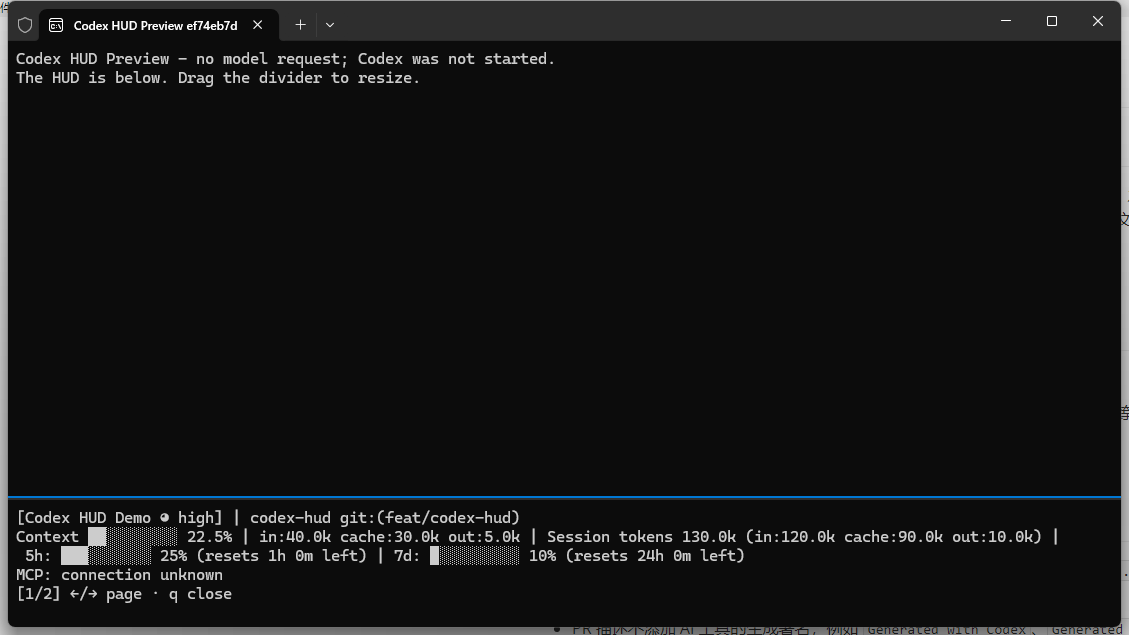
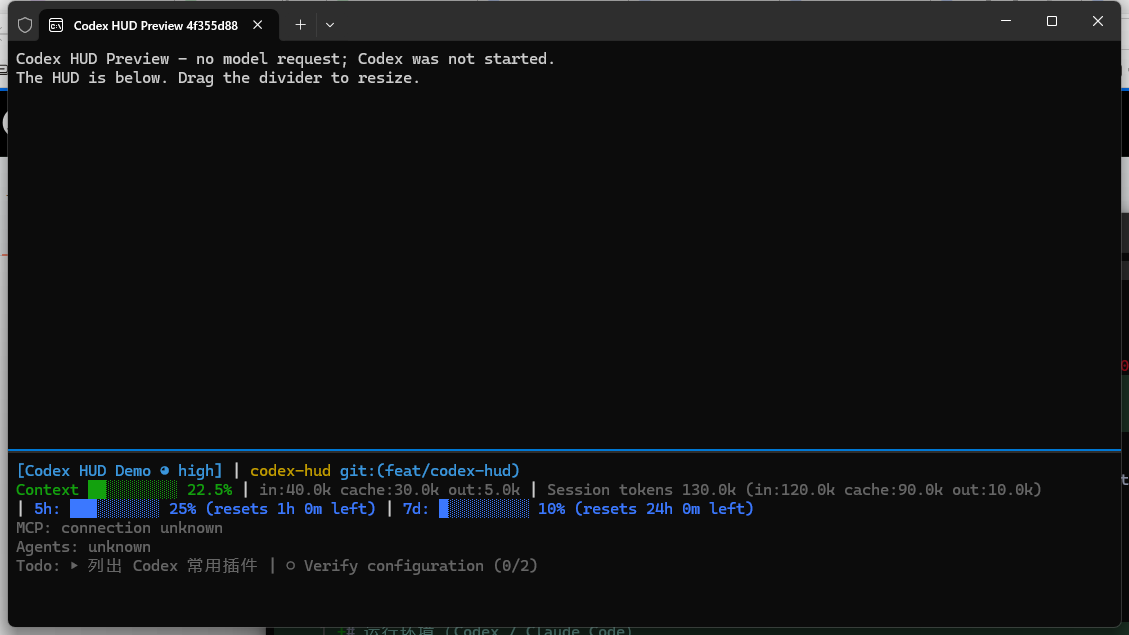
fix(hud): recover telemetry and diagnose launch prerequisites

diff --git a/codex-hud/src/runtime.ts b/codex-hud/src/runtime.ts
@@ -5,8 +5,9 @@ import {randomUUID} from 'node:crypto';
 import {spawn,execFileSync} from 'node:child_process';
 import {fileURLToPath,pathToFileURL} from 'node:url';
 import net from 'node:net';
-import {get,configPath,type Config} from './config.js';
+import {get,configPath,loadConfig,type Config} from './config.js';
 import {codexHome} from './sessions.js';
+import {inspectHookSetup,type HookSetup} from './doctor.js';
 export interface LaunchDescriptor {
  kind:'mz-codex-hud/1';id:string;file:string;cwd:string;codexHome:string;configFile:string;createdAt:string;
  state:'created'|'running'|'exited';sessionId?:string;transcriptPath?:string;heartbeat?:number;pid?:number;
@@ -63,8 +64,9 @@ export function buildTerminalArgs(d:LaunchDescriptor,args:string[]):string[]{
  const command=['-w','mz-codex-hud-'+d.id,'new-tab','--title',d.demo?'Codex HUD Preview '+d.id.slice(0,8):'Codex','--suppressApplicationTitle',...shared,'runner','--launch64',launch64,'--argv',Buffer.from(JSON.stringify(args)).toString('base64'),';','split-pane','--horizontal','--size',String(d.paneSize),'--title','Codex HUD','--suppressApplicationTitle',...shared,'watch','--launch64',launch64,';','focus-pane','-t','0'];
  if(command.join(' ').length>28000)throw new Error('Command arguments too long for Windows Terminal');return command;
 }
-export function resolveCodex():Command{
- const dirs=(process.env.PATH??'').split(path.delimiter);
+export function resolveCodex(environment:NodeJS.ProcessEnv=process.env,cwd=process.cwd()):Command{
+ const pathKey=Object.keys(environment).find(key=>key.toUpperCase()==='PATH');
+ const dirs=(pathKey?environment[pathKey]??'':'').split(path.delimiter).filter(Boolean).map(dir=>path.resolve(cwd,dir));
  for(const dir of dirs){
   const script=path.join(dir,'node_modules','@openai','codex','bin','codex.js');
   if(fs.existsSync(script))return {command:process.execPath,args:[script]};
@@ -97,23 +99,25 @@ export async function receiveEnvironment(d:LaunchDescriptor):Promise<NodeJS.Proc
   socket.on('error',reject);socket.on('end',()=>{try{const env=JSON.parse(data);if(!env||typeof env!=='object'||Array.isArray(env)||!Object.values(env).every(v=>typeof v==='string'))throw new Error('Invalid launch environment');resolve(env);}catch(e){reject(e);}});
  });
 }
-export async function runCodex(d:LaunchDescriptor,args:string[],command=resolveCodex(),environment:NodeJS.ProcessEnv=process.env):Promise<number>{
+export async function runCodex(d:LaunchDescriptor,args:string[],command:Command|undefined=undefined,environment:NodeJS.ProcessEnv=process.env):Promise<number>{
  validateCodexArgs(args);
  updateLaunch(d.file,value=>{value.state='running';value.pid=process.pid;value.heartbeat=Date.now();});
  const heartbeat=setInterval(()=>{try{updateLaunch(d.file,v=>{v.heartbeat=Date.now();});}catch{}},2000);
  const ignoreInterrupt=()=>{};process.on('SIGINT',ignoreInterrupt);
  try{
+  const selectedCommand=command??resolveCodex(environment,d.cwd);
   const code=await new Promise<number>((resolve,reject)=>{
-   const child=spawn(command.command,[...command.args,...(command.isolated===false?[]:['--no-daemon']),...args],{cwd:d.cwd,env:{...environment,CODEX_HOME:d.codexHome,MZ_CODEX_HUD_LAUNCH:d.file},stdio:'inherit',windowsHide:false,shell:false});
+   const child=spawn(selectedCommand.command,[...selectedCommand.args,...(selectedCommand.isolated===false?[]:['--no-daemon']),...args],{cwd:d.cwd,env:{...environment,CODEX_HOME:d.codexHome,MZ_CODEX_HUD_LAUNCH:d.file},stdio:'inherit',windowsHide:false,shell:false});
    child.once('error',reject);child.once('exit',(code,signal)=>resolve(code??(signal?130:1)));
   });updateLaunch(d.file,v=>{v.state='exited';v.exitCode=code;v.heartbeat=Date.now();});return code;
  }catch(e){updateLaunch(d.file,v=>{v.state='exited';v.exitCode=1;});throw e;}
  finally{clearInterval(heartbeat);process.off('SIGINT',ignoreInterrupt);}
 }
-export interface DoctorReport {node:string;terminal:boolean;codex:boolean;hooks:string;notes:string[]}
-export function checkRuntime():DoctorReport{
+export interface DoctorReport {node:string;terminal:boolean;codex:boolean;hooks:string;plugin:HookSetup;configuration:{status:string;path:string};binding:{status:string;sessionId?:string};notes:string[]}
+export function checkRuntime(options:{home?:string;configFile?:string;launchFile?:string}={}):DoctorReport{
  let terminal=false,codex=false;try{execFileSync('where.exe',['wt.exe'],{stdio:'ignore',windowsHide:true,timeout:1500});terminal=true;}catch{}
  try{resolveCodex();codex=true;}catch{}
- return {node:process.version,terminal,codex,hooks:'Review plugin hooks using /hooks in Codex; trust is never assumed',notes:process.platform==='win32'?[]:['Automatic split launch requires native Windows Terminal']};
+ const file=options.configFile??configPath();let status=fs.existsSync(file)?'valid':'defaults';try{loadConfig(file);}catch{status='invalid';}
+ let binding:DoctorReport['binding']={status:'not-selected'};if(options.launchFile){try{const launch=readLaunch(options.launchFile);binding={status:launch.state==='exited'?'exited':launch.sessionId?'bound':'pending',sessionId:launch.sessionId};if(launch.state==='running'&&launch.heartbeat&&Date.now()-launch.heartbeat>15000)binding.status='stale-runner';}catch{binding={status:'invalid-launch'};}}
+ return {node:process.version,terminal,codex,hooks:'Review plugin hooks using /hooks in Codex; trust is never assumed',plugin:inspectHookSetup(options.home??codexHome()),configuration:{status,path:file},binding,notes:process.platform==='win32'?[]:['Automatic split launch requires native Windows Terminal']};
 }
-

diff --git a/codex-hud/src/cli.ts b/codex-hud/src/cli.ts
@@ -32,7 +32,7 @@ async function watch(args:string[],once=false):Promise<void>{
  const ownedFile=launchFile(args);let descriptor=ownedFile?readLaunch(ownedFile):undefined;
  const home=descriptor?.codexHome??codexHome();const root=option(args,'--sessions-root')??path.join(home,'sessions');
  let selected=option(args,'--session');if(!descriptor&&!selected)selected=await chooseSession(root);
- let cfgFile=descriptor?.configFile??configFile(args),config=loadConfig(cfgFile);let page=0,quit=false,reader:SessionReader|undefined,nextDiscover=0,knownPath='',statusMessage='';
+ let cfgFile=descriptor?.configFile??configFile(args),config=loadConfig(cfgFile);let page=0,quit=false,reader:SessionReader|undefined,nextDiscover=0,knownPath='',statusMessage='';let lastSnapshot=emptySnapshot(selected??'pending');
  const onKey=(_:unknown,key:{name?:string;ctrl?:boolean})=>{if(key?.name==='q'||key?.name==='c'&&key.ctrl)quit=true;else if(key?.name==='right'||key?.name==='n')page++;else if(key?.name==='left'||key?.name==='p')page=Math.max(0,page-1);};
  const interactive=!once&&!!process.stdin.isTTY;
  if(interactive){emitKeypressEvents(process.stdin);process.stdin.setRawMode(true);process.stdin.on('keypress',onKey);process.stdin.resume();}
@@ -45,9 +45,9 @@ async function watch(args:string[],once=false):Promise<void>{
    if(selected){
     if(Date.now()>=nextDiscover||!reader){
      const session=await findSession(root,selected);nextDiscover=Date.now()+5000;
-     if(session&&session.path!==knownPath){knownPath=session.path;reader=new SessionReader(session.path,session.id);selected=session.id;}
+      if(session&&(!reader||session.path!==knownPath)){knownPath=session.path;reader=new SessionReader(session.path,session.id);selected=session.id;}
     }
-    if(reader){try{snapshot=await reader.read();}catch(e){snapshot=emptySnapshot(selected);snapshot.errors.push('Session log unavailable; waiting for recovery');reader=undefined;}}
+     if(reader){try{snapshot=await reader.read();lastSnapshot=structuredClone(snapshot);}catch(e){snapshot=structuredClone(lastSnapshot);snapshot.errors.push('Session log unavailable; showing stale telemetry and retrying');}}
     else snapshot.errors.push('Waiting for the selected session log');
    }else snapshot.errors.push('Waiting for SessionStart binding; open /hooks in Codex to review and trust this plugin hook');
    if(snapshot.cwd)snapshot.environment=readEnvironment(snapshot.cwd,home);
@@ -82,6 +82,7 @@ async function demoRunner(d:LaunchDescriptor):Promise<void>{
 async function start(args:string[],demo=false):Promise<void>{
  if(process.platform!=='win32')throw new Error('Automatic split launch requires native Windows Terminal; use watch manually elsewhere');
  const report=checkRuntime();if(!report.terminal||!report.codex&&!demo)throw new Error('Windows Terminal or Codex is missing; run doctor');
+ if(!demo&&report.plugin.status!=='available')throw new Error(report.plugin.message+'; run doctor for details');
  const separator=args.indexOf('--');const codexArgs=separator<0?[]:args.slice(separator+1);const hudArgs=separator<0?args:args.slice(0,separator);
  const d=createLaunch(option(hudArgs,'--cwd')??process.cwd(),loadConfig(configFile(hudArgs)),runtimeRoot(),configFile(hudArgs));
  if(demo)updateLaunch(d.file,v=>{v.demo=true;v.demoDurationMs=Number(option(hudArgs,'--duration'))||120000;v.codexHome=path.join(path.dirname(v.file),'demo-home-'+v.id);});
@@ -116,11 +117,13 @@ export async function main(args=process.argv.slice(2)):Promise<void>{
    let yes=rest.includes('--yes');if(!yes&&process.stdin.isTTY){const rl=createInterface({input:process.stdin,output:process.stdout});try{yes=(await rl.question('Save imported configuration? [y/N] ')).toLowerCase()==='y';}finally{rl.close();}}
    if(yes){saveConfig(file,config);console.log('Imported '+file);}else console.log('Preview only; use --yes to save the import');return;
   }
-  case 'doctor':console.log(JSON.stringify(checkRuntime(),null,2));return;
+  case 'doctor':{
+   const id=option(rest,'--launch');if(id&&!/^[a-f0-9-]{36}$/i.test(id))throw new Error('doctor --launch <launch ID>');
+   console.log(JSON.stringify(checkRuntime({configFile:configFile(rest),launchFile:id?path.join(runtimeRoot(),id+'.json'):undefined}),null,2));return;
+  }
   case 'stop':{const id=option(rest,'--launch');if(!id||!/^[a-f0-9-]{36}$/i.test(id))throw new Error('stop --launch <launch ID>');requestStop(path.join(runtimeRoot(),id+'.json'));console.log('HUD stop requested; Codex keeps running');return;}
   case 'help':case '--help':case '-h':
-   console.log('mz-codex-hud\\n  start [--cwd DIR] [-- Codex args...]\\n  watch|once --session ID [--json] [--width N]\\n  list\\n  configure\\n  config show | config set KEY VALUE\\n  import-claude [--path CONFIG] [--yes]\\n  doctor\\n  demo [--duration MILLISECONDS]\\n  stop --launch ID\\nAll commands accept --config FILE.');return;
+   console.log('mz-codex-hud\n  start [--cwd DIR] [-- Codex args...]\n  watch|once --session ID [--json] [--width N]\n  list\n  configure\n  config show | config set KEY VALUE\n  import-claude [--path CONFIG] [--yes]\n  doctor\n  demo [--duration MILLISECONDS]\n  stop --launch ID\nAll commands accept --config FILE.');return;
   default:throw new Error('Unknown command: '+command);
  }
 }
-

diff --git a/codex-hud/src/doctor.ts b/codex-hud/src/doctor.ts
@@ -1,0 +1,34 @@
+import fs from 'node:fs';
+import path from 'node:path';
+import {parse} from 'smol-toml';
+export interface HookSetup {status:string;trust:'unknown';pluginId?:string;path?:string;message:string}
+export function inspectHookSetup(home:string):HookSetup{
+ const result=(status:string,message:string,extra:Partial<HookSetup>={}):HookSetup=>({status,trust:'unknown',message,...extra});
+ let config:any={};
+ try{const file=path.join(home,'config.toml');if(fs.existsSync(file)){if(fs.statSync(file).size>1024*1024)return result('invalid-config','Codex config.toml is too large');config=parse(fs.readFileSync(file,'utf8'));}}
+ catch{return result('invalid-config','Cannot parse Codex config.toml; no settings were changed');}
+ const ids=Object.keys(config.plugins??{}).filter(id=>id.startsWith('codex-hud@'));
+ if(!ids.length)return result('missing','Install codex-hud@mz-codex-plugins from this repository marketplace');
+ const pluginId=ids.find(id=>config.plugins[id]?.enabled!==false)??ids[0];
+ if(config.plugins[pluginId]?.enabled===false)return result('disabled','Enable the Codex HUD plugin before launching',{pluginId});
+ if(config.features?.hooks===false||config.features?.plugin_hooks===false)return result('hooks-disabled','Codex lifecycle hooks are explicitly disabled',{pluginId});
+ const marketplace=pluginId.slice(pluginId.indexOf('@')+1);
+ if(!/^[a-zA-Z0-9_-]+$/.test(marketplace))return result('invalid-plugin','Unsupported local marketplace identifier',{pluginId});
+ const versionsRoot=path.join(home,'plugins','cache',marketplace,'codex-hud');
+ let versions:string[]=[];try{versions=fs.readdirSync(versionsRoot).filter(v=>fs.statSync(path.join(versionsRoot,v)).isDirectory()).sort((a,b)=>b.localeCompare(a,undefined,{numeric:true}));}catch{}
+ const root=versions.length?path.join(versionsRoot,versions[0]):undefined;
+ if(!root)return result('unbuilt','Installed plugin cache is missing; reinstall this plugin',{pluginId});
+ const extra={pluginId,path:root};
+ try{
+  const manifest=JSON.parse(fs.readFileSync(path.join(root,'.codex-plugin','plugin.json'),'utf8'));
+  const hookPath=typeof manifest.hooks==='string'?path.resolve(root,manifest.hooks):path.join(root,'hooks','hooks.json');
+  const relative=path.relative(root,hookPath);if(relative.startsWith('..')||path.isAbsolute(relative))return result('invalid-plugin','Hook manifest path escapes the plugin root',extra);
+  const hooks=JSON.parse(fs.readFileSync(hookPath,'utf8'));
+  const commands=(hooks.hooks?.SessionStart??[]).flatMap((item:any)=>item.hooks??[]).filter((item:any)=>item.type==='command'&&typeof item.command==='string'&&item.command.includes('session-start.mjs'));
+  if(!commands.length)return result('missing-hook','The plugin does not register its SessionStart binding hook',extra);
+  if(commands.every((item:any)=>item.enabled===false||item.disabled===true))return result('hooks-disabled','The plugin SessionStart hook is explicitly disabled',extra);
+ }catch{return result('invalid-plugin','The cached plugin manifest or hook definition is unreadable',extra);}
+ for(const file of ['dist/hook.js','dist/cli.js','hooks/session-start.mjs','node_modules/smol-toml/package.json'])
+  if(!fs.existsSync(path.join(root,file)))return result('unbuilt','Build the cached plugin: npm ci --ignore-scripts, then npm run build',extra);
+ return result('available','Hook files are available. Review/trust this exact hook in Codex /hooks; trust is not inferred from files',extra);
+}

diff --git a/codex-hud/src/sessions.ts b/codex-hud/src/sessions.ts
@@ -23,4 +23,3 @@ export async function findSession(root:string,id:string):Promise<SessionInfo|nul
  const all=await listSessions(root);const exact=all.filter(s=>s.id===id);
  if(exact.length)return exact[0];const matches=all.filter(s=>s.id.startsWith(id));if(matches.length>1)throw new Error('Ambiguous session ID; use the full ID');return matches[0]??null;
 }
-

diff --git a/codex-hud/src/types.ts b/codex-hud/src/types.ts
@@ -16,4 +16,3 @@ export interface EnvironmentFacts {
 }
 export interface SessionInfo {id:string;cwd:string;path:string;startedAt?:string;parentId?:string;modified:number}
 export function emptySnapshot(sessionId:string):HudSnapshot{return {sessionId,quotas:[],tools:[],agents:[],todos:[],mcpUsed:[],compactions:0,errors:[],status:'unknown'};}
-

diff --git a/codex-hud/src/environment.ts b/codex-hud/src/environment.ts
@@ -17,4 +17,3 @@ export function readEnvironment(cwd:string,home:string):EnvironmentFacts{
  catch(e){if((e as NodeJS.ErrnoException).code!=='ENOENT')facts.errors.push('Failed to read user MCP configuration');}
  cache.set(key,{time:Date.now(),value:facts});if(cache.size>32)cache.delete(cache.keys().next().value!);return facts;
 }
-

diff --git a/codex-hud/src/render.ts b/codex-hud/src/render.ts
@@ -107,4 +107,3 @@ export function render(s:HudSnapshot,c:Config,o:RenderOptions={}):RenderResult {
  if(pages>1)lines.push(ink(truncate('['+(page+1)+'/'+pages+'] '+label('←/→ page · q close','←/→ 翻页 · q 关闭','←/→ 翻頁 · q 關閉'),width),'label'));
  return {lines,totalLines:all.length,pages};
 }
-

diff --git a/codex-hud/src/hook.ts b/codex-hud/src/hook.ts
@@ -6,4 +6,3 @@ export async function handleHook():Promise<void>{
  if(event.hook_event_name&&event.hook_event_name!=='SessionStart')return;
  bindLaunch(launch,event);
 }
-

diff --git a/codex-hud/src/config.ts b/codex-hud/src/config.ts
@@ -146,4 +146,3 @@ export function importClaude(value:unknown):{config:Config;report:ImportRow[]} {
  walk(source);
  return {config:validateConfig(source),report};
 }
-

diff --git a/codex-hud/src/terminal-text.ts b/codex-hud/src/terminal-text.ts
@@ -42,4 +42,3 @@ export function colorize(value:string,color:unknown,enabled:boolean):string{
  }
  return code?'\x1b['+code+'m'+safe+'\x1b[0m':safe;
 }
-

diff --git a/codex-hud/src/reader.ts b/codex-hud/src/reader.ts
@@ -94,4 +94,3 @@ export class SessionReader {
   if(p.type==='message'&&p.role==='assistant')this.snapshot.lastResponseAt=text(timestamp);
  }
 }
-

diff --git a/codex-hud/src/config-menu.ts b/codex-hud/src/config-menu.ts
@@ -25,4 +25,3 @@ export async function configure(file:string,preview:(config:Config)=>string[]=()
   }
  }finally{rl.close();}
 }
-
